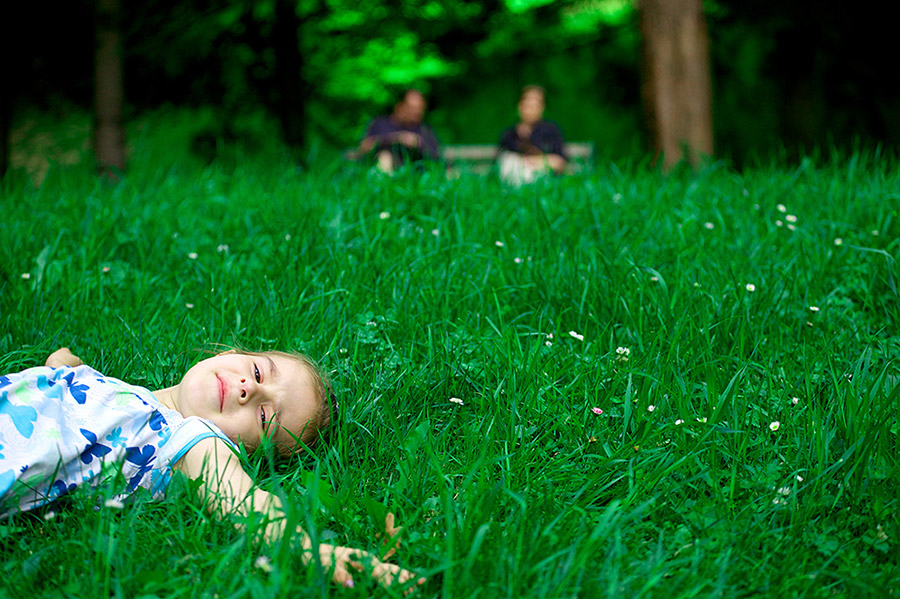
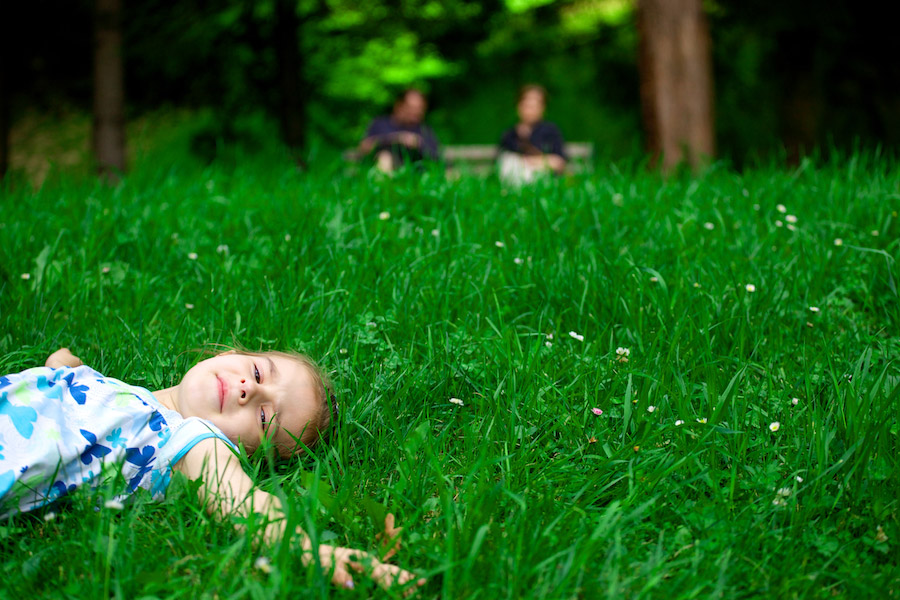
Added new photos with simpler initialization method, added overlay over the images to prevent easy images saving

diff --git a/src/assets/js/site/views/view.index.photography.js b/src/assets/js/site/views/view.index.photography.js
@@ -7,22 +7,56 @@
             backstretchEl: ".backstretch-wrap",
         },
         $backstretchEl = $(ui.el).find(ui.backstretchEl),
-        imagesPath,
-        onLoad = function(){
-            $(window).on("load", function(e) {
-                loadMorePhotos();
-            });
-        },
+        partialImagesPath = "images/photos/",
         initBackstretch = function(){
             if ($.fn.backstretch){
-                imagesPath = site.settings.assetsUrl.local + "images/photos/";
-                // site.settings.assetsUrl.local + "images/photos/coming-down-on-me.jpg", /* Coming down on me */
+                var imagesArr = [
+                        {
+                            url: "stuck-in-traffic.jpg",
+                        },
+                        {
+                            url: "hana.jpg",
+                        },
+                        {
+                            url: "big-ben.jpg",
+                            alignY: 0.7,
+                        },
+                        {
+                            url: "cat.jpg",
+                            alignY: 0,
+                        },
+                        {
+                            url: "double-rainbow-in-paris.jpg",
+                        },
+                        {
+                            url: "autumn-in-zrinjevac.jpg",
+                        },
+                        {
+                            url: "paris-sunset.jpg",
+                        },
+                        {
+                            url: "flowers.jpg",
+                        },
+                        {
+                            url: "tower-bridge.jpg",
+                        },
+                        {
+                            url: "adriatic-sea.jpg",
+                        },
+                        {
+                            url: "dijana.jpg",
+                            alignY: 1,
+                        },
+                    ],
+                    options = {
+                        duration: 5000,
+                        fade: 750,
+                        preload: 1,
+                    };
+
                 // "http://farm8.staticflickr.com/7035/6464821765_36a618a812_o.jpg", /* Paris opera */
-                // "http://farm9.staticflickr.com/8097/8442056306_0c4c82c808_o.jpg", /* London Big Ben */
-                $backstretchEl.backstretch(
-                    [imagesPath + "adriatic-sea.jpg"],
-                    {duration: 5000, fade: 750}
-                );
+
+                $backstretchEl.backstretch(addImagePath(imagesArr), options);
 
                 $(ui.el).on("click", function(){
                     var $el = $(this),
@@ -40,29 +74,17 @@
                 console.warn("Backstretch init failed");
             }
         },
-        loadMorePhotos = function(){
-             if ($.fn.backstretch){
-                // once the initial page load is finished, add more photos to backstretch
-                var backstretchInstance = $backstretchEl.data("backstretch");
-                backstretchInstance.images.push(
-                    {
-                        url: imagesPath + "stuck-in-traffic.jpg",
-                    },
-                    {
-                        url: imagesPath + "hana.jpg",
-                    },
-                    {
-                        url: imagesPath + "autumn-in-zrinjevac.jpg",
-                    },
-                    {
-                        url: imagesPath + "double-rainbow-in-paris.jpg",
-                    }
-                );
-            }
+        addImagePath = function(imagesArr){
+            var fullImagesPath = site.settings.assetsUrl.local + partialImagesPath;
+
+            imagesArr.forEach(function(el, i, arr){
+                el.url = fullImagesPath + el.url;
+            });
+
+            return imagesArr;
         },
         exports = {
             init: function(){
-                onLoad();
                 initBackstretch();
             },
         };

diff --git a/src/assets/scss/site/components/_index.photography.scss b/src/assets/scss/site/components/_index.photography.scss
@@ -5,6 +5,12 @@
     position:relative;
     text-align: center;
     z-index: 3;
+    &:after {
+        // prevent right click to save images
+        content: "";
+        position:absolute;
+        top:0;left:0;right:0;bottom:0;
+    }
     .backstretch-wrap {
         position:absolute;
         top:0;right:0;left:0;width:0;
@@ -16,14 +22,6 @@
         background: rgba($brown, 0.8);
         // color:lighten($brown, 60%);
         padding:rem-calc(2, 4);
-    }
-    .article-icon {
-        position:relative;
-        z-index:1;
-        @extend %type-background;
-        margin-bottom:rem-calc(10px);
-        display:inline-block;
-        color: $subheader-color;
     }
     h2 {
         position: relative;

diff --git a/src/assets/scss/site/pages/_index.scss b/src/assets/scss/site/pages/_index.scss
@@ -52,7 +52,7 @@
             font-size: rem-calc(34);
         }
         &.photography {
-            padding:14% 0 18%;
+            padding:18% 0;
         }
     }
 
